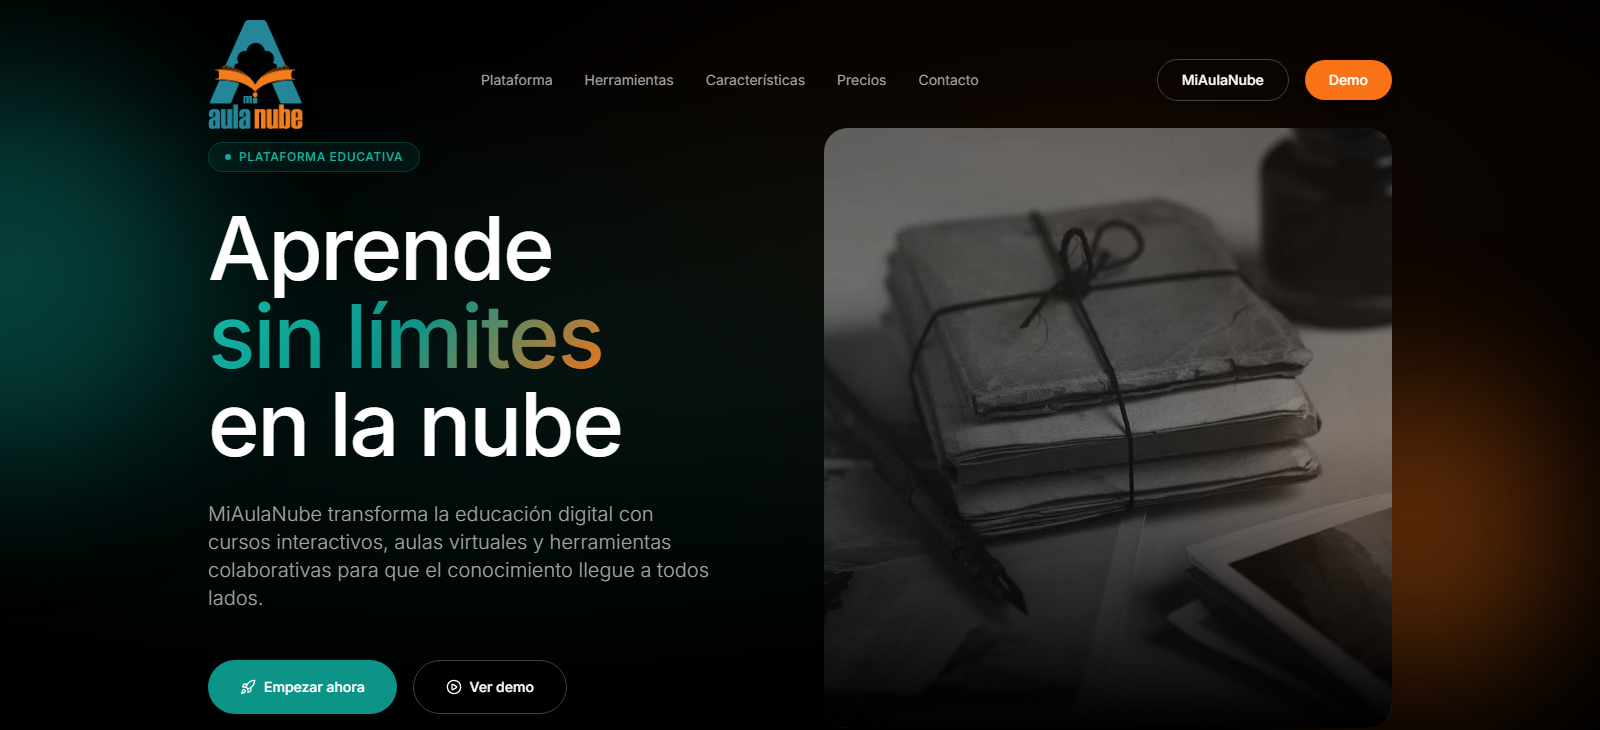
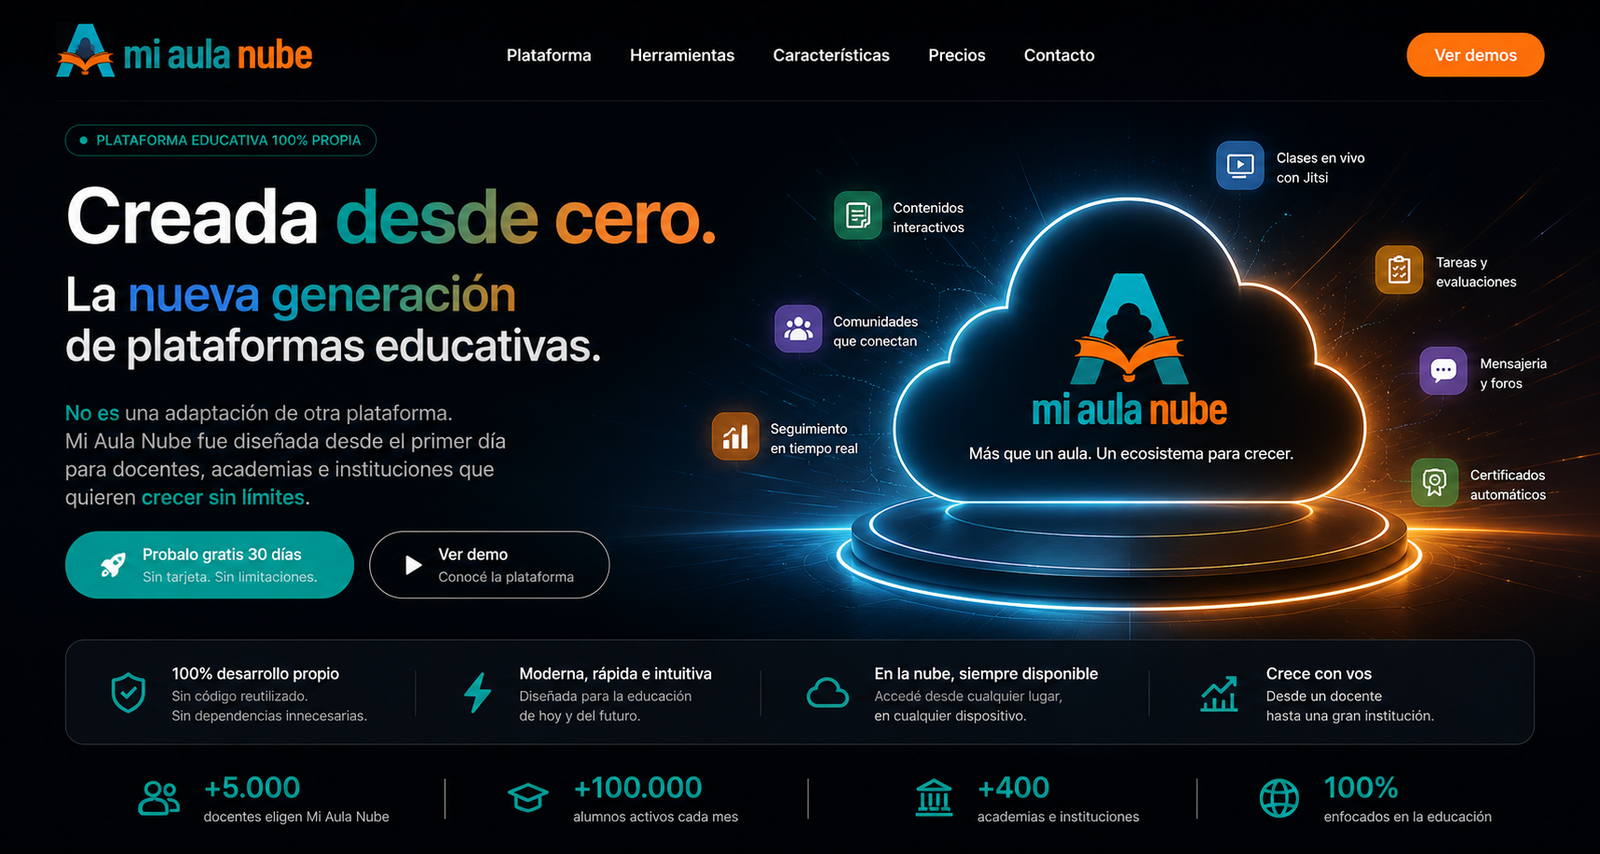
Reemplazar placeholders por assets reales: MiAulaNube, ComuCon, self-hosted
- MiAulaNube: nuevo screenshot de landing (Home card + /desarrollo),
  reemplaza el mian-hero.png anterior.
- ComuCon: se agregan las 4 capturas reales de la app (login, listado
  de envíos, autorización pendiente de firma, selector de creación) en
  /desarrollo, en un mosaico de 4 pantallas (2 en mobile). Reemplaza el
  placeholder de solo-logo. La tarjeta de Home sigue mostrando el logo
  (queda como teaser de marca).
- Infraestructura Self-Hosted: nuevo diagrama real de arquitectura
  (Tailscale VPN + UrBackup + RustDesk self-hosted) en Home card y en
  /desarrollo, reemplaza el ícono SVG abstracto.

Imágenes procesadas con Pillow (resize a 1600px de ancho, metadata
de las capturas de ComuCon eliminada).

diff --git a/src/data/site.ts b/src/data/site.ts
@@ -212,9 +212,8 @@ export const ownSolutions = [
       "Recuperación completa de un puesto, no solo archivos",
       "Acceso remoto seguro vía VPN privada (Tailscale + RustDesk)"
     ],
-    image: "",
-    imageAlt: "",
-    diagram: true
+    image: "/images/desarrollo/self-hosted-arquitectura.png",
+    imageAlt: "Diagrama de la arquitectura self-hosted de backup, recuperación y acceso remoto de REUTER: Tailscale, UrBackup y RustDesk"
   }
 ];
 
